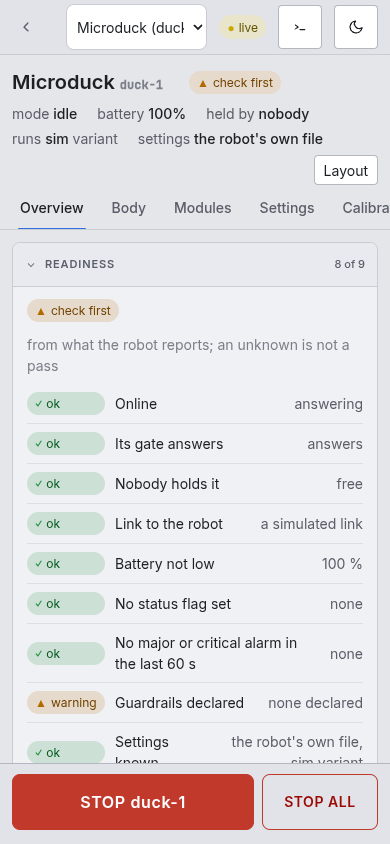
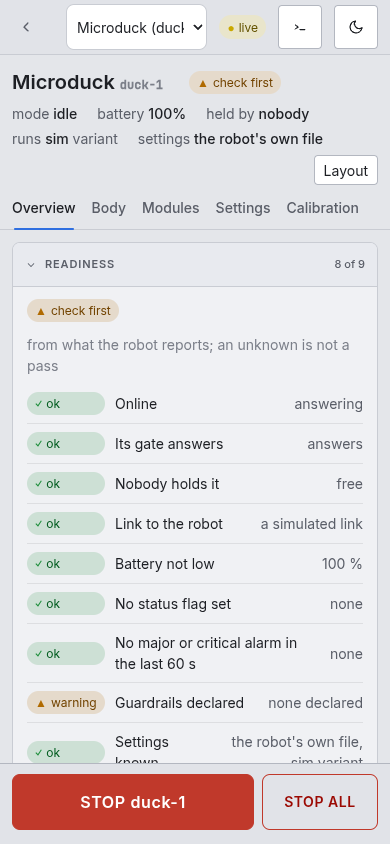
review fixes, web side: the Observatory follows a hash-only navigation; the phone watch, eye and robot pages fit 390 px
The technical review's 8.a: shell.js listens for hashchange and follows it, stamping history.state so its own
writes are not followed back; the Decided tab scrolls the decided moment into view. The watch and eye pages lay out
for a phone (shell.css), Mission Control's robot tabs wrap (style.css). Tests for each; the six 390 px shots re-taken.

Claude-Session: https://claude.ai/code/session_014cvkLACeLchr5ni8n9hCia

diff --git a/apps/observatory/web/shell/shell.js b/apps/observatory/web/shell/shell.js
@@ -427,6 +427,7 @@ export function createShell(adapter, { title = 'miniview', eye = false, watch = 
   function paintHud() {
     const on = eyeOn() && !!M.run && hasTicks();
     $('eyehud').hidden = $('eyecone').hidden = !on;
+    app.classList.toggle('eyeview', on);
     if (!on) return;
     const m = moment(), ev = m.ev, d = ev?.decision, live = M.run.status === 'live', al = alertOut();
     const view = adapter.eyeView?.();
@@ -476,7 +477,10 @@ export function createShell(adapter, { title = 'miniview', eye = false, watch = 
     let now = null;
     for (const r of rows) if (+r.dataset.t <= M.t + 1e-9) now = r;
     rows.forEach((r) => r.classList.toggle('now', r === now));
-    if (now && M.watch) now.scrollIntoView({ block: 'nearest' });
+    if (now && M.watch) {                              // the list's own scroll only: scrollIntoView would also scroll a phone's page down to the row
+      const box = now.closest('.decided'), b = box.getBoundingClientRect(), n = now.getBoundingClientRect();
+      if (n.top < b.top) box.scrollTop -= b.top - n.top; else if (n.bottom > b.bottom) box.scrollTop += n.bottom - b.bottom;
+    }
   }
   // the links between the explorer and the watch page, at this moment
   function paintLinks() {
@@ -1405,7 +1409,7 @@ export function createShell(adapter, { title = 'miniview', eye = false, watch = 
     return !!adapter.focusRobot?.();
   }
   function writeHash() {
-    history.replaceState(null, '', M.runId ? '#' + new URLSearchParams({ scene: M.sceneId, run: M.runId, view: M.view, frame: M.frame }) : '#scenes');
+    history.replaceState(history.state, '', M.runId ? '#' + new URLSearchParams({ scene: M.sceneId, run: M.runId, view: M.view, frame: M.frame }) : '#scenes');
   }
 
   // ---- theme (D1): dark by default, follows the system, a switch overrides and is remembered -------------
@@ -1686,6 +1690,29 @@ export function createShell(adapter, { title = 'miniview', eye = false, watch = 
       });
     }),
   });
+
+  // ---- hash navigation: a link pasted into the address bar, or followed on this page, is not a reload -----------------------
+  // writeHash uses replaceState, which fires no hashchange, so only the viewer's own navigations land here. Each history entry is
+  // stamped, and the playhead is kept for the entry being left: writeHash drops `t`, so Back could not read it from the hash.
+  let navChain = Promise.resolve(); const left = new Map();
+  const stamp = () => { if (history.state?.rl === undefined) history.replaceState({ rl: Math.random().toString(36).slice(2) }, ''); return history.state.rl; };
+  let here = stamp();
+  async function followHash() {
+    const from = here; here = stamp();
+    if (M.run) left.set(from, M.t);
+    const q = new URLSearchParams(location.hash.slice(1)), at = parseMoment(location.hash), want = VIEW_ALIAS[q.get('view')] || q.get('view');
+    const sc = q.get('scene') || undefined, run = q.get('run') || undefined;
+    if (!watch && (sc || run) && (!M.runId || (run !== undefined && run !== M.runId && run !== M.run?.id) || (sc !== undefined && sc !== M.sceneId))) {
+      try { await openRun(sc, run); } catch (e) { console.warn('the URL names no run:', String(e)); return; }
+    } else if (!watch && !sc && !run && M.runId && /^#?(scenes)?$/.test(location.hash)) { scenesPage(); return; }
+    if (!M.runId) return;
+    if (want && want !== M.view && knownViews().includes(want)) setView(want);
+    const t = at.t ?? left.get(here) ?? null;
+    if (t !== null) { await store.ensure(t); setTime(t); }
+    if (at.focus) focusOn(at.focus);
+    renderChrome();
+  }
+  window.addEventListener('hashchange', () => { navChain = navChain.then(followHash).catch((e) => console.warn(e)); });
 
   // ---- boot ---------------------------------------------------------------------------------------------
   adapter.init(stage, shell);

diff --git a/apps/observatory/web/shell/shell.css b/apps/observatory/web/shell/shell.css
@@ -551,3 +551,17 @@ mark { background: color-mix(in srgb, var(--status-warn) 30%, transparent); colo
   .vbtn { width: 24px; height: 24px; padding: 0; display: inline-grid; place-items: center; }
   .vbtn .i { display: block; } .vbtn .vbtn-t { display: none; }
 }
+
+/* the eye on a phone: the watch page keeps one column (its two-column span left the top bar in a 100 px strip), the view is square so the picture
+   is most of it, and the HUD is a compact strip over the top with the depth box small in the corner, so the two never meet and the HUD stays under 40 % of the view */
+@media (max-width: 960px) {
+  .app.watch .view { grid-column: 1; }
+  .app.eyeview .view { aspect-ratio: 1 / 1; }
+}
+@media (max-width: 600px) {
+  .hudbox { left: 8px; right: 8px; width: auto; max-height: 36%; overflow: hidden; padding: var(--sp-1) var(--sp-2); font-size: var(--fs-1); line-height: 1.4; }
+  .hudbox .hk { min-width: 44px; } .hudbox .hv { padding-left: 48px; }
+  .app.watch .hudbox { top: 8px; }
+  .hudraw { right: 8px; bottom: 8px; padding: var(--sp-1); }
+  .hudraw canvas { width: 56px; height: 56px; }
+}

diff --git a/apps/mission-control/src/mission_control/web/style.css b/apps/mission-control/src/mission_control/web/style.css
@@ -315,8 +315,8 @@ fieldset.stgroup legend { padding: 0 6px; font-family: var(--font-mono); font-si
   .strip { padding: var(--sp-3) var(--sp-3) 0; gap: 6px 14px; }
   .laymenu { right: var(--sp-3); }
   .strip h1 { font-size: var(--fs-5); }
-  .tabs { padding: 0 var(--sp-2); }
-  .tab { min-height: 44px; padding: 0 var(--sp-3); }
+  .tabs { padding: 0 var(--sp-1); gap: 0; flex-wrap: wrap; overflow-x: visible; }  /* a tab is never cut: it fits, or the row wraps */
+  .tab { min-height: 44px; padding: 0 var(--sp-2); }
   .content { padding: var(--sp-3); }
   .grid2 { gap: var(--sp-3); }
   .checks .val { max-width: 45%; }

diff --git a/apps/observatory/tests/test_eye_pages.py b/apps/observatory/tests/test_eye_pages.py
@@ -172,8 +172,8 @@ with tempfile.TemporaryDirectory() as tmp:
         ready(page)
         return r
 
-    def open_page(b, url, *, whole=True):
-        page = b.new_context(viewport={"width": 1600, "height": 1000}, color_scheme="dark").new_page()
+    def open_page(b, url, *, whole=True, size=(1600, 1000), scheme="dark"):
+        page = b.new_context(viewport={"width": size[0], "height": size[1]}, color_scheme=scheme).new_page()
         page.logs = []
         page.on("console", lambda m: page.logs.append(f"{m.type}: {m.text}") if m.type in ("error", "warning") and "404" not in m.text else None)
         page.on("pageerror", lambda e: page.logs.append(f"pageerror: {e}"))
@@ -375,6 +375,35 @@ with tempfile.TemporaryDirectory() as tmp:
         # `latest` is the scene's newest run
         lw = open_page(b, f"{base}/watch/duck/room/latest", whole=False)
         check("/watch/<robot>/<scene>/latest opens the scene's newest run", lw.evaluate("window.miniview.state().run") == "duck/room/eye1", lw.evaluate("window.miniview.state().run"))
+        # ---- a phone (390 px): the top bar spans the width, no two controls overlap, the HUD leaves most of the view ---------
+        # The HUD (text box) may cover at most 40 % of the view and the HUD with the depth box at most 50 %: the eye's picture is the point of the page.
+        PHONE = """(() => {
+          const r = (e) => e.getBoundingClientRect(), vis = (e) => e.offsetParent !== null && r(e).width > 0 && r(e).height > 0;
+          const ctl = [...document.querySelectorAll('#topbar button, #topbar a, #topbar input, .transport button, .transport input, .transport select, .tlopts button, .tlopts select')].filter(vis);
+          const hit = (a, b) => Math.min(a.right, b.right) - Math.max(a.left, b.left) > 1 && Math.min(a.bottom, b.bottom) - Math.max(a.top, b.top) > 1;
+          const over = [];
+          for (let i = 0; i < ctl.length; i++) for (let j = i + 1; j < ctl.length; j++) if (!ctl[i].contains(ctl[j]) && !ctl[j].contains(ctl[i]) && hit(r(ctl[i]), r(ctl[j]))) over.push([ctl[i].id || ctl[i].textContent.trim(), ctl[j].id || ctl[j].textContent.trim()]);
+          const v = r(document.querySelector('.view')), h = r(document.getElementById('hudtxt')), d = r(document.querySelector('.hudraw')), area = (x) => Math.max(0, x.width) * Math.max(0, x.height);
+          const inter = Math.max(0, Math.min(h.right, d.right) - Math.max(h.left, d.left)) * Math.max(0, Math.min(h.bottom, d.bottom) - Math.max(h.top, d.top));
+          const top = r(document.getElementById('topbar'));
+          const vh = r(document.querySelector('.vhead'));
+          return { over, topW: top.width, win: innerWidth, hud: area(h) / area(v), both: (area(h) + area(d) - inter) / area(v), hudDepth: inter, viewH: v.height,
+                   inside: h.left >= v.left - 1 && h.right <= v.right + 1 && h.top >= v.top - 1 && h.bottom <= v.bottom + 1 && d.right <= v.right + 1 && d.bottom <= v.bottom + 1,
+                   overflowX: document.documentElement.scrollWidth > innerWidth, scrollY: Math.round(scrollY), headClear: h.top >= vh.bottom - 1 };
+        })()"""
+        for what, url in (("watch", f"{base}/watch/duck/room/eye1#t=2.05"), ("eye", f"{base}/web/three/#scene=room&run=duck/room/eye1&view=eye&t=2.05")):
+            for scheme in ("light", "dark"):
+                ph = open_page(b, url, whole=False, size=(390, 844), scheme=scheme)
+                ph.wait_for_function("Math.abs(window.miniview.state().t - 2.05) < 1e-6", timeout=15000)
+                ph.wait_for_function("document.getElementById('hudtxt').textContent.length > 20")
+                g = ph.evaluate(PHONE)
+                shot(ph, f"phone-{what}-{scheme}")
+                check(f"390 px {what} {scheme}: the top bar spans the width, no two controls of the top bar and the transport overlap, no horizontal scroll, and the page was not scrolled by the decisions list",
+                      g["topW"] >= g["win"] - 1 and not g["over"] and not g["overflowX"] and g["scrollY"] == 0, g)
+                check(f"390 px {what} {scheme}: the HUD covers at most 40 % of the view, with the depth box at most 50 %, the two do not overlap, both stay inside the view and clear of its header, the view is at least 300 px tall",
+                      g["hud"] <= 0.4 and g["both"] <= 0.5 and g["hudDepth"] == 0 and g["inside"] and g["headClear"] and g["viewH"] >= 300, g)
+                check(f"390 px {what} {scheme}: no page errors", not ph.logs, ph.logs)
+
         check("no page errors on any page", not (page.logs or b_state_logs or w.logs or back.logs or lw.logs or page0.logs or att.logs), (page.logs, w.logs, back.logs, lw.logs, page0.logs, att.logs))
         b.close()
     httpd.shutdown()

diff --git a/apps/observatory/tests/test_look_evidence_pages.py b/apps/observatory/tests/test_look_evidence_pages.py
@@ -123,6 +123,36 @@ with tempfile.TemporaryDirectory() as tmp, sync_playwright() as p:
               and near(c2["target"][:2], c2["robot"][:2], 0.05) and c2["ndc"]["inside"], (c2["target"], c2["robot"]))
 
         pg3 = fresh(390, 844, "light")
+        # hash-only navigation on an open page: an evidence link pasted into the address bar (or clicked as a same-page link) is not a reload
+        pg4 = fresh()
+        boot(pg4, f"{base}/web/three/#scene=room&run=arm/room/r1&view=top&t=1", reload=True)
+        pg4.wait_for_function("window.miniview.state().run !== null && Math.abs(window.miniview.state().t - 1) < 0.11")
+        pg4.evaluate("window.__same = 1")
+        pg4.evaluate("location.hash = '#scene=room&run=arm/room/r1&view=3d&t=2&focus=robot'")
+        pg4.wait_for_function("window.miniview.state().view === '3d' && Math.abs(window.miniview.state().t - 2) < 0.11")
+        pg4.wait_for_function(f"{A}.camera().moving === false")
+        c4 = pg4.evaluate(f"{A}.camera()")
+        check("hash navigation: an evidence link assigned to location.hash on an open page opens at t=2 on the 3D view framed on the robot, paused, without a reload",
+              pg4.evaluate("window.__same") == 1 and pg4.evaluate("window.miniview.config().play.on") is False
+              and near(c4["target"][:2], c4["robot"][:2], 0.05) and c4["ndc"]["inside"], (c4["target"], c4["robot"]))
+        pg4.evaluate("location.hash = '#scene=room&run=arm/room/r1&view=3d&t=1.5'")
+        pg4.wait_for_function("Math.abs(window.miniview.state().t - 1.5) < 0.11")
+        check("hash navigation: a hash with only t changed seeks there, same view", pg4.evaluate("window.miniview.state().view") == "3d" and pg4.evaluate("window.__same") == 1)
+        pg4.go_back()
+        pg4.wait_for_function("Math.abs(window.miniview.state().t - 2) < 0.11")
+        pg4.go_back()
+        pg4.wait_for_function("window.miniview.state().view === 'top' && Math.abs(window.miniview.state().t - 1) < 0.11")
+        check("hash navigation: back after two pushes returns to t=2, then to the first moment (t=1, the top view), no reload", pg4.evaluate("window.__same") == 1)
+        pg4.evaluate("window.miniview.setTime(0.5)")
+        pg4.evaluate("location.hash = '#scene=room&run=arm/room/r1&view=top&t=2.5'")
+        pg4.wait_for_function("Math.abs(window.miniview.state().t - 2.5) < 0.11")
+        pg4.go_back()
+        pg4.wait_for_function("Math.abs(window.miniview.state().t - 0.5) < 0.11")
+        check("hash navigation: back restores the playhead the viewer had left, even when the earlier hash carried no t (the shell rewrites it without one)", abs(pg4.evaluate("window.miniview.state().t") - 0.5) < 0.11)
+        pg4.evaluate("window.miniview.setTime(1.0)")
+        pg4.wait_for_timeout(300)
+        check("hash navigation: the shell's own hash writes do not loop back as navigations", abs(pg4.evaluate("window.miniview.state().t") - 1.0) < 0.11)
+
         c3 = open_link(pg3, L + "&focus=robot", whole_scene=True)
         check("390 px light: the link frames the robot too, and the page has no horizontal overflow",
               near(c3["target"][:2], c3["robot"][:2], 0.05) and c3["ndc"]["inside"] and pg3.evaluate("document.documentElement.scrollWidth <= window.innerWidth"), (c3["ndc"], ))

diff --git a/apps/mission-control/tests/test_robot_page.py b/apps/mission-control/tests/test_robot_page.py
@@ -109,6 +109,14 @@ with sync_playwright() as p:
         check("touch targets are at least 44 px on the phone: the tabs, the section heads, the back button, the picker", page.evaluate(
             "() => ['.tab', '#rp-readiness-head', '#rp-back', '#rp-picker', '#theme'].every((s) => [...document.querySelectorAll(s)].every((e) => e.getBoundingClientRect().height >= 44 || !e.offsetParent))"))
         check("no sideways scrolling on the robot page at 390 px", no_scroll())
+        TABS_WHOLE = """() => { const w = innerWidth; return [...document.querySelectorAll('.tabs .tab')].filter((e) => e.offsetParent).map((e) => { const r = e.getBoundingClientRect();
+            return { t: e.textContent.trim(), ok: r.left >= 0 && r.right <= w && e.scrollWidth <= e.clientWidth + 1 }; }); }"""
+        for w in (390, 320):
+            page.set_viewport_size({"width": w, "height": 800})
+            whole = page.evaluate(TABS_WHOLE)
+            check(f"at {w} px every tab is on screen with its whole label (Overview, Body, Modules, Settings, Calibration: none clipped, none behind a scroll)",
+                  len(whole) == 5 and all(t["ok"] for t in whole), whole)
+        page.set_viewport_size({"width": 390, "height": 800})
 
     # --- tabs: the selected one is in the address, so reload and back keep it ------------------------------------------
     with soft("tabs"):
